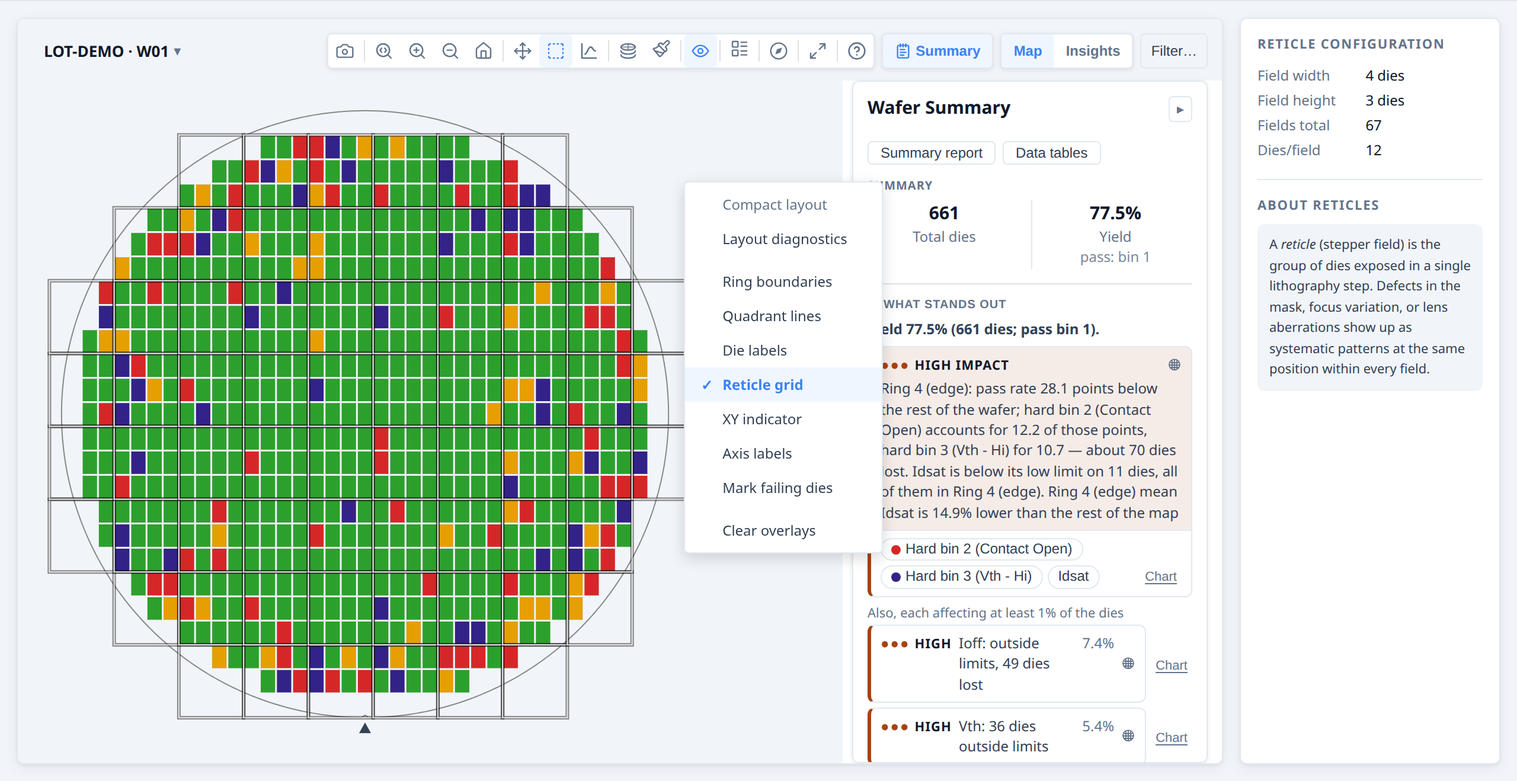
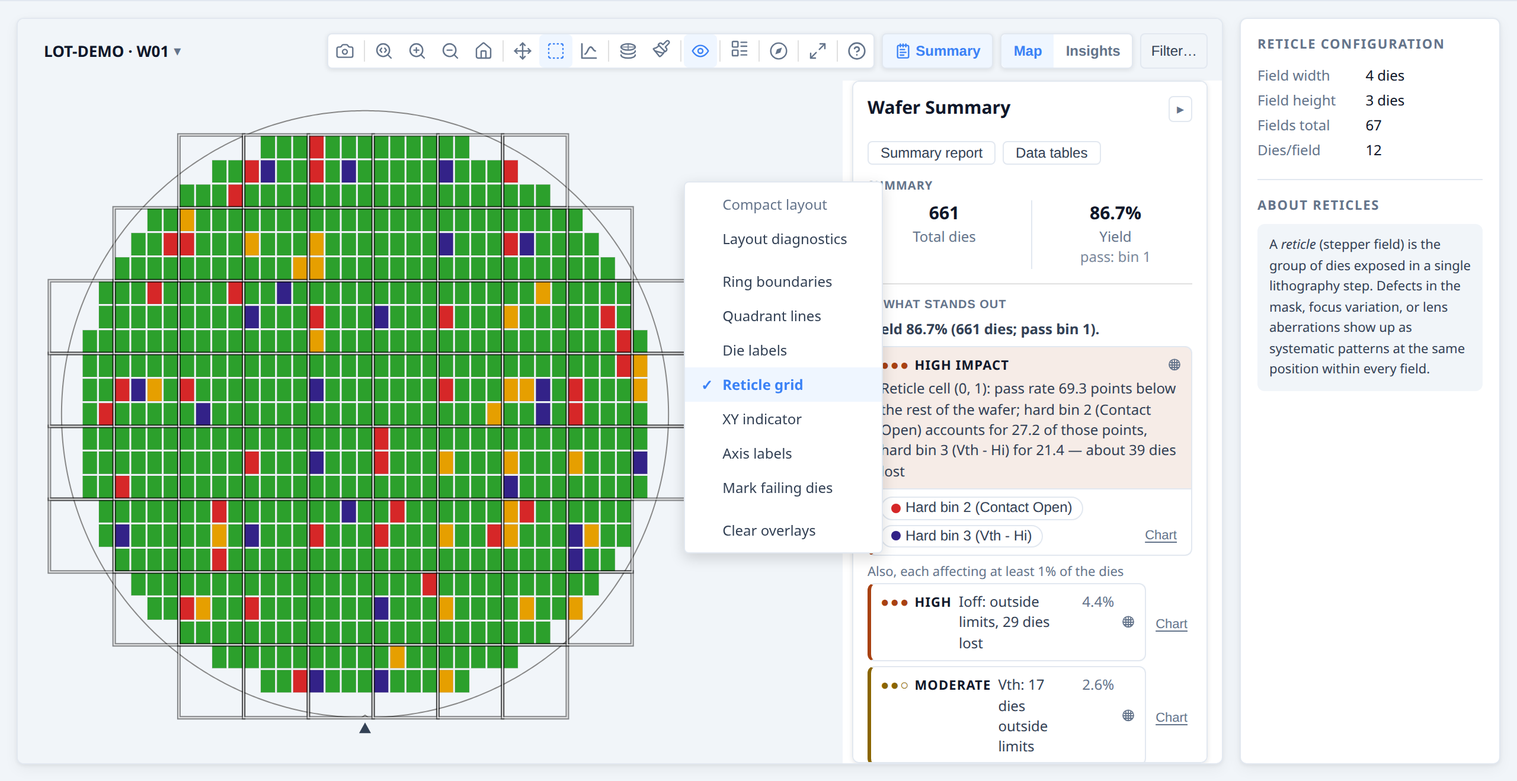
Align docs and examples with the app's wording and data
Test limits and spec limits are named consistently across the guides, chart reference, glossary and API pages. The test-sites example colours by site, the reticle example shows its own finding, and the named-bins example explains its Pass colour. Two guide images are recaptured.

diff --git a/docs/examples/test-sites.html b/docs/examples/test-sites.html
@@ -105,14 +105,19 @@
     function build(injectDefect) {
       const results = makeResults({
         seed:         7,
-        edgeFail:     true,
         siteCount:    SITE_COUNT,
         siteFail:     injectDefect ? 3 : 0,
         includePartId: true,
       });
 
+      // Each die also carries its site as metadata, so the map can be coloured by site.
+      const SITE_COLOURS = ['#4e79a7', '#f28e2b', '#59a14f', '#b07aa1'];
       const result = buildWaferMap({
-        results,
+        results: results.map(r => ({ ...r, metadata: { site: `Site ${r.siteNum}` } })),
+        metadataFields: [{
+          key: 'site', label: 'Test site',
+          values: SITE_COLOURS.map((color, i) => ({ value: `Site ${i + 1}`, label: `Site ${i + 1}`, color })),
+        }],
         waferConfig: WAFER_CONFIG,
         dieConfig:   DIE_CONFIG,
         hbinDefs:    HBIN_DEFS,
@@ -170,19 +175,17 @@
     });
 
     document.getElementById('btn-site').addEventListener('click', () => {
-      // siteNum is not a native plotMode; colour by metadata isn't available yet —
-      // show a tooltip note instead and keep hardBin mode.
-      // (A dedicated siteNum plot mode is a future feature.)
-      ctrl.setOptions({ plotMode: 'hardBin' });
-      document.getElementById('btn-hbin').classList.add('active');
-      document.getElementById('btn-site').classList.remove('active');
-      alert('Per-site colouring as a dedicated plot mode is planned for a future release.\nThe findings panel already shows site-level statistical comparisons.');
+      ctrl.setOptions({ plotMode: 'metadata', activeMetadataKey: 'site' });
+      document.getElementById('btn-site').classList.add('active');
+      document.getElementById('btn-hbin').classList.remove('active');
     });
 
     // Defect injection toggle
     document.getElementById('btn-defect-on').addEventListener('click', () => {
       document.getElementById('btn-defect-on').classList.add('active');
       document.getElementById('btn-defect-off').classList.remove('active');
+      document.getElementById('btn-hbin').classList.add('active');
+      document.getElementById('btn-site').classList.remove('active');
       const rebuilt = build(true);
       ctrl = renderWaferMap(document.getElementById('map'), rebuilt.result, {
         viewOptions:  { plotMode: 'hardBin' },
@@ -195,6 +198,8 @@
     document.getElementById('btn-defect-off').addEventListener('click', () => {
       document.getElementById('btn-defect-off').classList.add('active');
       document.getElementById('btn-defect-on').classList.remove('active');
+      document.getElementById('btn-hbin').classList.add('active');
+      document.getElementById('btn-site').classList.remove('active');
       const rebuilt = build(false);
       ctrl = renderWaferMap(document.getElementById('map'), rebuilt.result, {
         viewOptions:  { plotMode: 'hardBin' },

diff --git a/docs/examples/data.js b/docs/examples/data.js
@@ -169,7 +169,7 @@ export function makeResults({
         const phaseX = ((1 % reticleWidth) + reticleWidth) % reticleWidth;
         const cellX = ((i + phaseX) % reticleWidth + reticleWidth) % reticleWidth;
         const cellY = ((j % reticleHeight) + reticleHeight) % reticleHeight;
-        if (cellX === 2 && cellY === 1) pass -= 0.32;
+        if (cellX === 2 && cellY === 1) pass -= 0.6;
       }
 
       pass -= yieldShift;
@@ -294,7 +294,7 @@ const IDSAT_LSL = 0.95e-3;
 const IOFF_USL = 6e-11;
 
 /**
- * Hard bin names and brand colours.
+ * Hard bin names.
  * Bin 1 = Pass; bins 2–4 are failure categories as assigned by the test program handler.
  */
 export const HBIN_DEFS = [

diff --git a/docs/examples/statistics.html b/docs/examples/statistics.html
@@ -51,7 +51,7 @@
     share a page.
     <br><br>
     <strong>Single wafer</strong> — <code>analyzeWaferMap</code> scans five families:
-    rings, quadrants, angular sectors (16 compass directions), failure clusters
+    rings, quadrants, angular sectors (8 compass directions by default), failure clusters
     (contiguous failing dies denser than background), and edge arcs. This wafer has a
     particle/ESD cluster, a handling arc near the perimeter, and the natural radial
     gradient that drives ring and sector findings. Click any finding to highlight the

diff --git a/docs/examples/named-bins.html b/docs/examples/named-bins.html
@@ -26,6 +26,7 @@
   <div class="demo-intro">
     Pass <code>hbinDefs</code> and <code>sbinDefs</code> to name every bin and give it a colour.
     Named bins appear in tooltips, the legend, and the summary panel.
+    This page gives <em>Pass</em> a blue on purpose, to show that a colour set in the definition wins; without one, a pass bin is green.
     Use the toolbar to switch between <strong>Hard Bin</strong> and <strong>Soft Bin</strong> modes — the <strong>Summary</strong> button opens the Summary panel showing yield and per-bin counts.
   </div>
 

diff --git a/docs/examples/comparison.html b/docs/examples/comparison.html
@@ -594,7 +594,7 @@
           passBins: [1],
           waferConfig,
           testDefs: [
-            // Spec limits on testA enable out-of-spec (▽/△ marker) flagging and
+            // Test limits on testA enable out-of-spec (▽/△ marker) flagging and
             // LSL/USL markers on the colorbar — neither exists in Plotly.
             { testNumber: 1050, name: 'testA', unit: 'V', limitLow: 1.00, limitHigh: 1.30 },
             { testNumber: 1060, name: 'testB', unit: 'V' },

diff --git a/docs/examples/reticle.html b/docs/examples/reticle.html
@@ -95,7 +95,7 @@
     const reticleConfig = { width: 4, height: 3, anchorDie: { x: 1, y: 0 } };
 
     const result = buildWaferMap({
-      results:       makeResults({ seed: 19, edgeFail: true, reticlePattern: true }),
+      results:       makeResults({ seed: 19, reticlePattern: true }),
       waferConfig:   WAFER_CONFIG,
       dieConfig:     DIE_CONFIG,
       hbinDefs:      HBIN_DEFS,

diff --git a/docs/user-guide.md b/docs/user-guide.md
@@ -99,7 +99,7 @@ results with no X/Y coordinates at all, for some or every die on a wafer.
 fabricated positions would risk being misread as real spatial layout. Instead the card shows a
 compact summary matching the active plot mode: a **bin breakdown** (coloured the same as a
 positioned card's own bin legend) for hard/soft-bin modes, or a **histogram** for value mode —
-coloured through the same colour scheme, log-scale, and spec/data-range settings the map itself
+coloured through the same colour scheme, log-scale, and limit/data-range settings the map itself
 uses, so switching those in the toolbar updates the chart the same way it would a real map. A
 **View die list** toggle switches to the full per-die table (position/site, hard bin, soft bin,
 every test value) with its own CSV export; **View chart** switches back.
@@ -273,9 +273,9 @@ Use the **Overlays** menu to toggle optional display layers on and off:
 
 - **Axis labels** — the die coordinates along the bottom and left edges. They appear when you zoom; this row shows
   them all the time, or hides them. **Clear overlays** returns to showing them on zoom
-- **XY axis indicator** — shows X and Y axis lines through the wafer centre
+- **XY axis indicator** — arrows showing which way the X and Y die coordinates run
 - **Ring boundaries** — concentric ring divisions that match the spatial analysis zones
-- **Quadrant lines** — divides the wafer into N, S, E, W quadrants
+- **Quadrant lines** — divides the wafer into NE, NW, SE and SW quadrants
 - **Die coordinate labels** — draws the (x, y) grid position inside each die (useful at high zoom)
 - **Reticle grid** — stepper field grid (only shown when reticle geometry is configured)
 - **Limit pass/fail** — pass/fail colouring for Test Value mode, judged against the test limits, when the active test defines them
@@ -609,8 +609,8 @@ A map with only bin data has no charts to draw, but its menu still opens with
 
 ## 5. Findings panel
 
-When spatial analysis has been run, the **Findings** panel lists statistically
-detected patterns on the wafer. Open it from the toolbar.
+When spatial analysis has been run, the **Findings** section of the Summary panel lists statistically
+detected patterns on the wafer. Open the panel with the toolbar's **Summary** button.
 
 Each finding shows:
 
@@ -624,7 +624,7 @@ Each finding shows:
 **Severity** reflects how strong the statistical evidence is. *Unusual* findings
 have both a very low adjusted p-value and a large effect size — they are reliably
 important. *Notable* findings are statistically significant with a meaningful
-effect but not as extreme. *Info* findings pass the significance threshold at
+effect but not as extreme. *Minor* findings pass the significance threshold at
 lower strength and are worth reviewing but may reflect smaller or noisier patterns.
 
 **Test-value findings** (a region reading high or low on a test) take the longest to compute, so
@@ -650,7 +650,7 @@ next to other failures (a spot touching a failing edge, say) is still reported a
 | Type                 | What it indicates                                                                                   |
 | -------------------- | --------------------------------------------------------------------------------------------------- |
 | **Ring**             | Yield or value difference between radial bands — e.g. centre vs edge gradient                       |
-| **Quadrant**         | Yield or value difference between N, S, E, or W quadrants                                           |
+| **Quadrant**         | Yield or value difference between NE, NW, SE or SW quadrants                                           |
 | **Sector**           | Asymmetry across finer angular slices — rotational bias or directional process variation            |
 | **Test-site**        | Yield or value difference between parallel probe sites on the same wafer                            |
 | **Reticle position** | Yield signature repeating at specific stepper field grid positions                                  |
@@ -868,10 +868,9 @@ bin 1 (Pass) or bin 2 (Fail) at that location.*
 
 The **Insights** side of the **Maps | Insights** switch (at the far right of the toolbar row, single map or
 gallery) swaps the wafer view for a chart suite computed from the same die data — without leaving the
-toolbar. Choose **Maps** to return to the map; the switch stays where it is. Independent of the Findings
-sidebar (see [Summary panel](#6-summary-panel)) — the two toggle independently, and opening one never
-hides the other's toolbar button, since Findings has nothing to highlight
-against once the map is replaced.
+toolbar. Choose **Maps** to return to the map; the switch stays where it is. While Insights is open the
+buttons that act on the map, the **Summary** button among them, are hidden, since there is no map for the
+[Summary panel](#6-summary-panel) to highlight; **Maps** brings them back.
 
 The [Chart reference](https://wafertools.github.io/wafermap/charts/) describes every chart, plot and table: what it
 shows, how to read it, when to reach for it and where to find it. This section covers how the tab works.
@@ -895,7 +894,7 @@ own charts and sweeps (see *Plots* and *Sweep cards* below):
   [Reticle cell yield](https://wafertools.github.io/wafermap/charts/#reticle-cell-yield). With four or more wafers and wafer fields to compare, [What divides yield](https://wafertools.github.io/wafermap/charts/#what-divides-yield)
   ranks the fields by how clearly their groups differ; **Group by** on its row groups the whole tab by that field. With
   Group by on, the yield bar and the pareto draw a bar per group (click a group's bar to see its wafers, **Back** to return). The
-  pass-rate card offers up to three ways of judging, whichever the data supports: **Spec limits**, **Tester flag** and
+  pass-rate card offers up to three ways of judging, whichever the data supports: **Test limits**, **Tester flag** and
   **Functional**; when the first two disagree it says how many dies they judged differently. The card is the size of the
   others whatever the number of tests: more than fit scroll. With nothing to judge it is left out.
 - **Worth a look**, on the Overview below the yield, bin and region cards — the same items as
@@ -1082,7 +1081,7 @@ setting is for, each marked as an example; none is saved until you add it. They 
 wafer (for a single wafer, the one that follows distance from the centre most), its partner the test that tracks it
 best, and the split is the lot field that best explains the lead test. The examples are a scatter of the lead
 test against its partner with a fitted line, a histogram with its
-normal curve, a box of the lead test by wafer, a bar of yield by the split, a line over wafer order with a ±1 SD band, and a probability plot. It shows one of each newer
+normal curve, a box of the lead test by wafer, a bar of yield by the split, a line over wafer order with a ±1 SD band, and a probability plot. The examples also show one of each newer
 feature the lot can show: the most telling tests as one set rescaled to z-scores (a box per test, and a heatmap of
 tests by wafer), the lead test by split and by wafer nested in split, panels by ring, the lead test by ranges of its
 partner and of the distance from the centre, a pareto of the hard bins and each wafer's bin mix, the
@@ -1112,6 +1111,7 @@ In **Setup**, choose the **chart type**, then the field for each role:
 | **Control** | one value per wafer in order, against control limits, with the points that break a rule marked | along (X), the values |
 | **Heatmap** | one cell per row and column, coloured by the value combined there | columns, rows, values (optional: a count) |
 | **Goal** | every test with both limits as a point: how far off centre and how wide | the tests (all by default) |
+| **Sweep** | a run of tests read as one response curve, and the pair of curves measured against each other (see [Sweep cards](#sweep-cards)) | the series of tests and where each one's X comes from |
 
 - **X axis** and **Y axis** (a histogram has one **Values** field; a box or bar has
   **Categories** instead of a numeric X). Any measured test, a die's X or Y position,
@@ -1353,7 +1353,9 @@ questions:
 opens on a selection or a wafer (**Plots** section), drawn over just those dies and
 captioned with them.
 
-![The right-click menu on a selection, with the Plots section](images/guide-plot-drilldown.png) **New plot…** and **New sweep…** in the same menu start a draft on the selection;
+![The right-click menu on a selection, with the Plots section](images/guide-plot-drilldown.png)
+
+**New plot…** and **New sweep…** in the same menu start a draft on the selection;
 a draft is kept only if you press **Add to my plots**.
 
 Every change is kept as you make it. If you make a mistake, **Reset** (under the settings) puts the plot back as it was
@@ -1510,7 +1512,7 @@ mask defects.
 
 <div data-wmap-demo="reticle" class="wmap-demo"></div>
 
-Reticle-position findings in the Findings panel highlight the specific field
+Reticle-position findings in the Summary panel's Findings section highlight the specific field
 positions that show elevated failure rates. Hovering any die also shows its
 **Reticle (column, row)** position — its location within its own stepper
 field — just below the die's coordinate in the tooltip.
@@ -1684,7 +1686,7 @@ requirements are met, so nothing here claims it. The differences:
   outlier analysis, and lists tests that shall use PAT limits at test (pin leakage, standby supply current, IDDQ, output
   levels, propagation delays and others, in its Appendix 2). Nothing here checks a test's distribution or matches tests
   to that list.
-- **A floor of 30 passing values per wafer.** That floor is ours. The guideline's 1.35 is inexact for under 20 values,
+- **A floor of 30 passing values per wafer.** That floor is this library's own choice. The guideline's 1.35 is inexact for under 20 values,
   and sets sample sizes only for static limits.
 - **Quartiles** are found by interpolation between the ranked values, which the guideline does not specify.
 

diff --git a/docs/api/render-map.md b/docs/api/render-map.md
@@ -109,11 +109,11 @@ ctrl.setOptions({ plotMode: 'softBin' });  // merge — only listed keys change
 | `useDefinedBinColors` | `boolean` | `true` | Honour `BinDef.color` where a bin definition supplies one. The Palette menu offers it as **Use colours from bin definitions**, only when some definition carries a colour. |
 | `activeTest` | `number` | `0` | testNumber to display in `value` mode — must match a `testDef.testNumber`, not a positional index |
 | `activeMetadataKey` | `string` | — | `die.metadata` key to display in `'metadata'` mode — must match a `metadataFields[].key` (§4.1.12) |
-| `passFailDisplay` | `'off' \| 'spec' \| 'test'` | `'off'` | Requested pass/fail display for `value` mode. `'spec'` colours dies by spec-limit judgement (green / blue fail-low / red fail-high; degrades to `'off'` when the active test has no limits). `'test'` colours dies by the tester's own verdict from `die.testPass` (green pass / red fail, undirected; degrades to `'off'` when no die has a verdict for the active test). The library resolves the effective display — a functional active test (`testType: 'F'`) always renders as `'test'` regardless of this option. Both solid displays replace the colour bar with a Pass/Fail legend carrying per-category die counts, and the map title's secondary line names which is shown (`Limit pass/fail` vs `Tester pass/fail` vs `Functional pass/fail`). Toggled via the Overlays toolbar menu, whose two entries appear only when valid for the active test. |
+| `passFailDisplay` | `'off' \| 'spec' \| 'test'` | `'off'` | Requested pass/fail display for `value` mode. `'spec'` colours dies by test-limit judgement (`limitLow`/`limitHigh`) (green / blue fail-low / red fail-high; degrades to `'off'` when the active test has no limits). `'test'` colours dies by the tester's own verdict from `die.testPass` (green pass / red fail, undirected; degrades to `'off'` when no die has a verdict for the active test). The library resolves the effective display — a functional active test (`testType: 'F'`) always renders as `'test'` regardless of this option. Both solid displays replace the colour bar with a Pass/Fail legend carrying per-category die counts, and the map title's secondary line names which is shown (`Limit pass/fail` vs `Tester pass/fail` vs `Functional pass/fail`). Toggled via the Overlays toolbar menu, whose two entries appear only when valid for the active test. |
 | `highlightBin` | `number \| number[]` | — | Dim all bins except this one, or these. Clicking a bin/soft-bin legend swatch shows only it (or clears it when it is the only one shown); Ctrl/Cmd+click adds or removes it. A clicked finding about a bin sets it to that bin. |
 | `highlightMetadataValue` | `string \| string[]` | — | `'metadata'` mode's analogue of `highlightBin` — dim every die except this metadata value, or these. Legend clicks work as for `highlightBin`. |
 | `valueRange` | `[number, number] \| { test, range }` | auto | Explicit range for value colour normalization; overrides `colorbarRangeMode`. Tuple applies to the active test (caller owns the coupling). Object `{ test, range }` applies only when `test` matches the active test, else it is ignored and the view auto-scales — use this to safely fix a range computed for a specific test. |
-| `colorbarRangeMode` | `'spec' \| 'data'` | `'spec'` | Controls **only** the colour bar's numeric range when the active test has spec limits: `'spec'` spans `[limitLow, limitHigh]`; `'data'` spans the actual data min/max. In both ranges all dies are coloured by the gradient and out-of-spec dies are flagged with a triangle marker (▽ below `limitLow`, △ above `limitHigh`) over their gradient fill — so the distribution stays readable while out-of-spec dies remain visibly flagged. The marker is drawn black or white per die for contrast against its own gradient fill, so it stays visible under any colour scheme. Ignored under `passFailDisplay: 'spec'` (pass/fail mode always uses spec limits and fills dies solid green/blue/red). |
+| `colorbarRangeMode` | `'spec' \| 'data'` | `'spec'` | Controls **only** the colour bar's numeric range when the active test has test limits: `'spec'` spans `[limitLow, limitHigh]`; `'data'` spans the actual data min/max. In both ranges all dies are coloured by the gradient and dies outside the limits are flagged with a triangle marker (▽ below `limitLow`, △ above `limitHigh`) over their gradient fill — so the distribution stays readable while those dies remain visibly flagged. The marker is drawn black or white per die for contrast against its own gradient fill, so it stays visible under any colour scheme. Ignored under `passFailDisplay: 'spec'` (pass/fail mode always uses the test limits and fills dies solid green/blue/red). |
 | `logScale` | `boolean` | from `TestDef` | Override log₁₀ scale for the active test; falls back to linear when vMin ≤ 0 |
 | `aggregationMethod` | `string` | `'mean'` | Aggregation method in `stackedValues` mode: `'mean'` \| `'median'` \| `'stddev'` \| `'min'` \| `'max'` \| `'count'` |
 | `rotation` | `0 \| 90 \| 180 \| 270` | `0` | Clockwise rotation in degrees |
@@ -852,7 +852,7 @@ Choose the right update method:
 | Mode | Grouped dropdown: **Test Value** section (one entry per test — labelled by `testDef.name` when provided, otherwise `Test {N}` using the testNumber; cascade submenu when > 6 tests) · **Bins** section (Hard Bin, Soft Bin) · **Lot Aggregation** section (Stacked Test Values, Stacked Hard Bins, Stacked Soft Bins). Only modes for which data is actually present are shown. |
 | Palette | Menu: in Hard/Soft Bin mode, the registered bin colour schemes (plus **Use colours from bin definitions** when a `BinDef` carries a colour); in every other mode, the registered value gradients. Hidden in `'metadata'` mode. |
 | Log scale | Toggle log₁₀ scale for the colour bar and value normalization. Shown only in `value` / `stackedValues` modes, and hidden (not just dimmed) whenever a solid pass/fail display is active or the active test is functional, since log scale has no effect on pass/fail colouring. Overrides the per-test `TestDef.logScale` default. Silently falls back to linear when vMin ≤ 0. |
-| Colour bar range | Toggle colour bar range between **spec** (`[limitLow, limitHigh]`) and **data** (actual min/max). Only shown in `value` mode when the active testDef has at least one limit defined. Active (highlighted) = spec range; inactive = data range. In both states all dies keep the gradient fill and out-of-spec dies are flagged with a triangle marker (▽ below `limitLow`, △ above `limitHigh`) over that fill. |
+| Colour bar range | Toggle colour bar range between the **limits** (`[limitLow, limitHigh]`) and the **data** (actual min/max). Only shown in `value` mode when the active testDef has at least one limit defined. Active (highlighted) = limit range; inactive = data range. In both states all dies keep the gradient fill and dies outside the limits are flagged with a triangle marker (▽ below `limitLow`, △ above `limitHigh`) over that fill. |
 | Rings | Toggle ring boundary overlay |
 | Quadrants | Toggle quadrant boundary overlay |
 | Labels | Toggle die index text labels |

diff --git a/docs/guide/findings.md b/docs/guide/findings.md
@@ -4,7 +4,7 @@
 
 ## Adding statistical findings
 
-The statistics engine (`analyzeWaferMap`) scans for spatial patterns across five families: rings, quadrants, angular sectors, contiguous failure clusters, and edge arcs. For each family it compares the local zone to the rest of the wafer using a statistical test appropriate to the variable type.
+The statistics engine (`analyzeWaferMap`) scans for spatial patterns in rings, quadrants, angular sectors, reticle positions and test sites, and for contiguous failure clusters and edge arcs. For each region family it compares the local zone to the rest of the wafer using a statistical test appropriate to the variable type.
 
 It also runs a **spatial pattern classifier** that labels the overall failure signature of the wafer — edge-ring, center cluster, scratch, and so on. This operates separately from the zone-by-zone statistical tests: the statistical findings are the evidence, the pattern label is the interpretation. See [Spatial Pattern Detection](../pattern-detection.md) for how the classifier works, what it was tested on, and its known limitations.
 
@@ -26,7 +26,7 @@ renderWaferMap(container, result, {
 });
 ```
 
-A "Findings" button (notebook icon) appears in the toolbar. Clicking it opens
+A **Summary** button appears in the toolbar. Clicking it opens
 the summary panel — a persistent results panel alongside the map showing yield,
 bin distribution, ring and quadrant stats, test value summaries, and the full
 findings list. Clicking any finding in the panel highlights the affected dies on
@@ -43,7 +43,7 @@ By default the engine checks every combination of:
 
 - **Ring zones** — each concentric ring vs. the rest of the wafer
 - **Quadrant zones** — each of NE/NW/SE/SW vs. the rest of the wafer
-- **Angular sectors** — 16 compass-direction sectors (N, NNE, NE, …) vs. the rest of the wafer; finer directional resolution than quadrants, catching drift patterns a single quadrant would dilute
+- **Angular sectors** — compass-direction sectors (8 by default: N, NE, E, …) vs. the rest of the wafer; finer directional resolution than quadrants, catching drift patterns a single quadrant would dilute
 - **Reticle-field positions** — each reticle cell vs. other cells (only when a `reticleConfig` was used)
 - **Failure clusters** — contiguous groups of failing dies that are denser than the wafer-wide background failure rate; each cluster highlighted as a specific set of dies
 - **Edge arcs** — failure clusters whose centroid is near the wafer perimeter and whose angular span is narrow; distinguished from full-ring edge effects (which ring analysis catches separately)
@@ -65,9 +65,7 @@ Clicking the finding again clears the highlight.
 
 ### Interpreting findings and severity
 
-The findings list is ranked and filtered by statistical strength and effect size:
-
-These thresholds are **internal constants, not options** — see [§7.3 of the API reference](../api/stats.md#73-analyzewafermapoptions) for why. They are documented here so you can tell why a pattern did or did not produce a finding.
+The findings list is ranked and filtered by statistical strength and effect size. These thresholds are **internal constants, not options** — see [§7.3 of the API reference](../api/stats.md#73-analyzewafermapoptions) for why. They are documented here so you can tell why a pattern did or did not produce a finding.
 
 - **p-value correction:** adjusted p-values are used (threshold 0.05), corrected with a Benjamini–Hochberg FDR procedure over every comparison of one kind on the wafer at once: all its yield, bin, functional and limit-fail rates in every region family are one family. Rates whose expected counts are small (a rare bin, a small region, a nearly clean wafer) are tested exactly (Fisher's test) rather than by the normal approximation.
 - **A region must hold against the regions that are not themselves deviant:** compared with "the rest of the wafer", the regions beside a strong pattern look deviant the other way (a failing quadrant makes the sectors opposite look good). Each finding is re-tested against the rest without the other findings of the same variable and family, losses first, and a region is called better only than the regions that are not worse. A failing block of rings is reported as the block, never as the rings either side of it being better.
@@ -146,7 +144,7 @@ The **test-value row** is the expensive one: it runs a Welch comparison for ever
 |---------------------------------------------------------------------------|-------------------------------------|---------------|
 | Yield, bin, and spatial (ring/quadrant/sector/cluster) findings only      | `enableTestValueAnalysis: false`    | baseline      |
 | …plus per-test descriptive stats (mean, stddev, min, max, median, Q1, Q3) for box plots / histograms | `enableTestValueAnalysis: false, computePerTestStats: true` | ~5× baseline  |
-| …plus "this test's value differs significantly in this region" findings (and spec-limit region findings), whatever the size | `enableTestValueAnalysis: true`     | ~12× baseline |
+| …plus "this test's value differs significantly in this region" findings (and limit-fail region findings), whatever the size | `enableTestValueAnalysis: true`     | ~12× baseline |
 
 The test-value analysis also produces the per-test descriptive stats, so you never need both. The cost multipliers are illustrative (measured at ~2.8k dies × 200 tests); the absolute numbers scale with your test count.
 
@@ -225,10 +223,10 @@ exports and your own UI:
 const summary = analyzeWaferMap(result, { computePerTestStats: true });
 
 summary.stats.capability;                   // Cp/Cpk/Pp/Ppk per parametric test, worst first
-summary.stats.testSpecYield;                // pass rate by spec limits
+summary.stats.testSpecYield;                // pass rate by test limits
 summary.stats.testFlagYield;                // pass rate by the tester's own recorded verdict
 summary.stats.functionalYield;              // pass rate of functional (pass/fail-only) tests
-summary.stats.specVerdictDisagreementDies;  // dies where spec limits and the tester disagree
+summary.stats.specVerdictDisagreementDies;  // dies where the test limits and the tester disagree
 summary.stats.regionYield;                  // { ring, quadrant } yield, with die and pass counts
 ```
 

diff --git a/docs/guide/galleries.md b/docs/guide/galleries.md
@@ -157,7 +157,7 @@ the lot data to discover unique tests and bins when entering a stacked mode, and
 generates default labels (e.g. "Test 1050", "Bin 2") automatically.
 
 **Spatial findings.** Each stacked card automatically gets a spatial analysis
-summary — detach the card into its own window and click the findings button to
+summary — detach the card into its own window and click its Summary button to
 see ring, quadrant, sector, and cluster findings on the aggregated map.  No extra
 code is required.
 
@@ -280,12 +280,12 @@ renderWaferGallery(container, items, { insights: { enabled: true } });
 
 Either way, a **Maps | Insights** switch appears at the far right of the toolbar row, after the toolbar, and stays in the same place in both views. Choosing **Insights** swaps the map (or gallery grid) for the chart suite; choosing **Maps** — the toolbar stays visible and usable throughout — returns to the map. Pass `defaultOpen: true` to land on the charts instead of the map, for a surface where the analysis is the point rather than an option — the [Insights example](../examples/insights.html) does exactly that. Panels read parametric test values, so pass `testDefs` to `buildWaferMap` if you want the pass-rate chart, capability, box plots, histograms, the trend chart, correlation, and scatter to have data; yield and bin pareto only need `die.hbin`/`die.sbin`.
 
-The toolbar itself adapts: mode, palette, overlay, orientation, Expand, and Findings controls (and, in a gallery, columns/download) are hidden while the Insights tab is open — none of them apply to the chart suite, and Findings specifically toggles the map/gallery findings panel, which sits behind (or inside the now-hidden grid body of) the Insights view with no visible effect. Only Insights and User guide stay visible. Expand has no single view left to enlarge once Insights owns the screen — each chart panel inside Insights has its own Expand, in its ⋯ menu, for enlarging just that chart.
+The toolbar itself adapts: mode, palette, overlay, orientation, Expand, and Summary controls (and, in a gallery, columns/download) are hidden while the Insights tab is open — none of them apply to the chart suite, and Summary specifically toggles the map/gallery summary panel, which sits behind (or inside the now-hidden grid body of) the Insights view with no visible effect. Only Insights and User guide stay visible. Expand has no single view left to enlarge once Insights owns the screen — each chart panel inside Insights has its own Expand, in its ⋯ menu, for enlarging just that chart.
 
 The tab lays out three chart sub-tabs, then **Data** and **My plots**. Sweeps are cards on the My plots tab (see [Derived tests and sweeps](#derived-tests-and-sweeps)):
 
 - **Overview** — headline tiles naming the population (wafers, dies analysed and excluded, and for a lot the mean wafer yield), a **per-test pass rate** chart (worst test first, one sub-bar per group when grouping is active), a yield bar labelled with the actual pass bins in use and marked with a dashed median reference, and a hard/soft bin pareto.
-- **Distributions** — process capability, a test-value box plot, a value histogram, and a **wafer-to-wafer trend** (one point per wafer at its mean, ±1σ whiskers, the die-weighted lot mean as a centre line, and spec limits where the test has them). The trend is always in slot order and has no sort control by design — drift only reads in the population's own sequence.
+- **Distributions** — process capability, a test-value box plot, a value histogram, and a **wafer-to-wafer trend** (one point per wafer at its mean, ±1σ whiskers, the die-weighted lot mean as a centre line, and the test's limits where it has them). The trend is always in slot order and has no sort control by design — drift only reads in the population's own sequence.
 - **Correlation** — a Pearson-r matrix (each cell carrying its own `n`) and a die-level X/Y scatter that prints `r` and `n` for the pair it is showing.
 
 Clicking a capability box drives the box plot, histogram and trend's selected test in place; clicking a correlation-matrix cell drives the scatter panel's X/Y in place — the same live cross-linking the toolbar's own mode/colour controls give you elsewhere.
@@ -469,7 +469,7 @@ const result = buildWaferMap({
 });
 ```
 
-That is all the wiring there is. Test 900001 now appears in the test-value plot modes, the colour bar, tooltips, `analyzeWaferMap`, the Insights panels and the report, with its `limitHigh` driving spec marks and Cpk exactly as a measured limit would.
+That is all the wiring there is. Test 900001 now appears in the test-value plot modes, the colour bar, tooltips, `analyzeWaferMap`, the Insights panels and the report, with its `limitHigh` driving limit marks and Cpk exactly as a measured limit would.
 
 Three accessors read the die, and the distinction between the last two matters: `t[1020]` is the measured value, `testPass[1020]` is the verdict the *tester* recorded, and `specPass[1020]` is the verdict *the limits* imply. Those two genuinely disagree in the field — guard bands and dynamic limits routinely cause it — so they are separate accessors rather than one conflated "did it pass". `diePass()` gives the die's bin verdict under the map's `passBins`.
 
@@ -588,7 +588,6 @@ sweeps: [{
   | `Vth @ 50mV` | `@ {x}` | 0.05 | the `m` of `mV` is read as milli, so 50 mV is 0.05 |
   | `Delay 5ns @ 25C` | `Delay {x}` | 5 × 10⁻⁹ | a unit with a prefix is scaled to its base unit |
   | `Leak I=1e-6A` | `I={x}` | 10⁻⁶ | exponent notation is read |
-
   | `12314` | `123?{x}` | 4 | `?` is any one character, so names of one shape can be read by position: here the digit after `123` and one more |
   | `12336` | `123?{x}` | 6 | the same pattern on the next name |
 

diff --git a/docs/guide/display.md b/docs/guide/display.md
@@ -153,7 +153,7 @@ bar above the gallery grid.  Which buttons appear depends on the context and the
 | <img src="../images/icons/mode.svg" width="20" height="20"> | Plot mode | Always | Opens mode menu: Test Value, Hard Bin, Soft Bin, and Stacked modes (only when map was built with `lotStack`) |
 | <img src="../images/icons/palette.svg" width="20" height="20"> | Colour palette | Always | Opens colour scheme picker |
 | <img src="../images/icons/logScale.svg" width="20" height="20"> | Log scale | Value / stacked-values mode only | Toggles log₁₀ colour normalisation; disabled when min ≤ 0; hidden whenever a solid pass/fail display is active or the active test is functional (log scale has no effect on pass/fail colouring) |
-| <img src="../images/icons/specRange.svg" width="20" height="20"> | Colour bar range | Value mode, test has `limitLow` or `limitHigh`, pass/fail display off | Toggles the colour bar's numeric range between spec-limit range (`[limitLow, limitHigh]`) and data range (actual min/max). Out-of-spec dies are flagged with ▽/△ markers in both. |
+| <img src="../images/icons/specRange.svg" width="20" height="20"> | Colour bar range | Value mode, test has `limitLow` or `limitHigh`, pass/fail display off | Toggles the colour bar's numeric range between the test-limit range (`[limitLow, limitHigh]`) and the data range (actual min/max). Dies outside the limits are flagged with ▽/△ markers in both. |
 | <img src="../images/icons/overlays.svg" width="20" height="20"> | Overlays | Always | Dropdown: Ring boundaries, Quadrant lines, Die labels, Reticle grid (when reticles present), XY indicator, Limit pass/fail (value mode, test has limits), Test pass/fail (value mode, active test is functional or has recorded verdicts) |
 | <img src="../images/icons/legend.svg" width="20" height="20"> | Legend style | Hard bin or soft bin mode only | Dropdown: legend position (default, compact, left, top, bottom, floating) |
 | <img src="../images/icons/orient.svg" width="20" height="20"> | Orientation | Always | Dropdown: Rotate 90° CW, Flip horizontal, Flip vertical |
@@ -185,7 +185,7 @@ The gallery control bar is always visible above the card grid.
 | <img src="../images/icons/palette.svg" width="20" height="20"> | Colour palette | Always | Colour scheme picker; applies to all cards |
 | <img src="../images/icons/aggr.svg" width="20" height="20"> | Aggregation method | Stacked Test Values mode only | Selects mean, median, std dev, min, max, or count; re-aggregates all cards immediately |
 | <img src="../images/icons/logScale.svg" width="20" height="20"> | Log scale | Value / stacked-values mode only | Applies to all cards |
-| <img src="../images/icons/specRange.svg" width="20" height="20"> | Colour bar range | Value mode, active test has `limitLow` or `limitHigh`, pass/fail display off | Toggles the colour bar's numeric range: spec-limit range ↔ data range. Out-of-spec dies are flagged with ▽/△ markers in both; applies to all cards |
+| <img src="../images/icons/specRange.svg" width="20" height="20"> | Colour bar range | Value mode, active test has `limitLow` or `limitHigh`, pass/fail display off | Toggles the colour bar's numeric range: test-limit range ↔ data range. Dies outside the limits are flagged with ▽/△ markers in both; applies to all cards |
 | <img src="../images/icons/overlays.svg" width="20" height="20"> | Overlays | Always | Dropdown: Ring boundaries, Quadrant lines, Die labels, Reticle grid (when any card has reticles), XY indicator, Limit pass/fail (value mode, active test has limits), Test pass/fail (value mode, active test is functional or has recorded verdicts) — applies to all cards |
 | <img src="../images/icons/legend.svg" width="20" height="20"> | Legend style | Always | Dropdown: **Legend on each map** toggle (off by default — the lot legend strip stands in for it), then the per-card legend position, available only while that toggle is on and in a bin or metadata mode |
 | <img src="../images/icons/orient.svg" width="20" height="20"> | Orientation | Always | Dropdown: Rotate 90° CW, Flip horizontal, Flip vertical — applies to all cards |

diff --git a/docs/glossary.md b/docs/glossary.md
@@ -72,11 +72,11 @@ A test with no measured value — only a recorded pass/fail outcome (a continuit
 
 ### Pass/fail display
 
-The solid, categorical colouring shown in `value` plot mode in place of the continuous gradient — set via `WaferViewOptions.passFailDisplay`. `'spec'` judges dies against the active test's spec limits (green pass / blue fail-low / red fail-high). `'test'` colours dies by the tester's own **recorded** verdict (`DieResult.testPass`) instead — green pass / red fail, undirected — and is what a functional test (no measured value) always renders as, regardless of the requested display. *Library mapping: `WaferViewOptions.passFailDisplay`.*
+The solid, categorical colouring shown in `value` plot mode in place of the continuous gradient — set via `WaferViewOptions.passFailDisplay`. `'spec'` judges dies against the active test's test limits, `limitLow` and `limitHigh` (green pass / blue fail-low / red fail-high). `'test'` colours dies by the tester's own **recorded** verdict (`DieResult.testPass`) instead — green pass / red fail, undirected — and is what a functional test (no measured value) always renders as, regardless of the requested display. *Library mapping: `WaferViewOptions.passFailDisplay`.*
 
 ### Process capability (Cp / Cpk / Pp / Ppk)
 
-A statistical measure of how well a parametric test's values fit within its spec limits — the Insights tab's Distributions sub-tab plots one box per test, normalised so `limitLow = 0` and `limitHigh = 1` where both limits are defined, worst `Ppk` first. `Cp`/`Cpk` ("potential"/short-term capability) use the pooled *within-wafer* standard deviation, treating each wafer as the natural short-term subgroup; `Cp` ignores how centered the distribution is, `Cpk` penalizes an off-center mean. `Pp`/`Ppk` ("performance"/long-term capability) use the plain standard deviation across every die instead. Higher is better; ≥1.33 is a common (but process-specific) threshold for "capable." `Cp`/`Cpk` are omitted when no wafer contributes at least two values (no within-subgroup variance is computable). Tests missing one or both spec limits are not omitted from the chart — they still appear (muted, dashed, no capability indices), normalized onto their own observed range instead, and sorted after spec'd tests by most-variable-first, since a lot with sparse spec coverage would otherwise render an all-but-empty chart. *Library mapping: `StatsSummary.stats.capability` and `LotStatsSummary.stats.capability` (`TestCapability`), from `analyzeWaferMap`/`analyzeWaferLot` with `computePerTestStats`.*
+A statistical measure of how well a parametric test's values fit within its limits (spec limits where it has both, its test limits otherwise) — the Insights tab's Distributions sub-tab plots one box per test, normalised so `limitLow = 0` and `limitHigh = 1` where both limits are defined, worst `Ppk` first. `Cp`/`Cpk` ("potential"/short-term capability) use the pooled *within-wafer* standard deviation, treating each wafer as the natural short-term subgroup; `Cp` ignores how centered the distribution is, `Cpk` penalizes an off-center mean. `Pp`/`Ppk` ("performance"/long-term capability) use the plain standard deviation across every die instead. Higher is better; ≥1.33 is a common (but process-specific) threshold for "capable." `Cp`/`Cpk` are omitted when no wafer contributes at least two values (no within-subgroup variance is computable). Tests missing one or both limits are not omitted from the chart — they still appear (muted, dashed, no capability indices), normalized onto their own observed range instead, and sorted after tests with limits by most-variable-first, since a lot with sparse limit coverage would otherwise render an all-but-empty chart. *Library mapping: `StatsSummary.stats.capability` and `LotStatsSummary.stats.capability` (`TestCapability`), from `analyzeWaferMap`/`analyzeWaferLot` with `computePerTestStats`.*
 
 ### Welch test, Kruskal–Wallis and q-value
 
